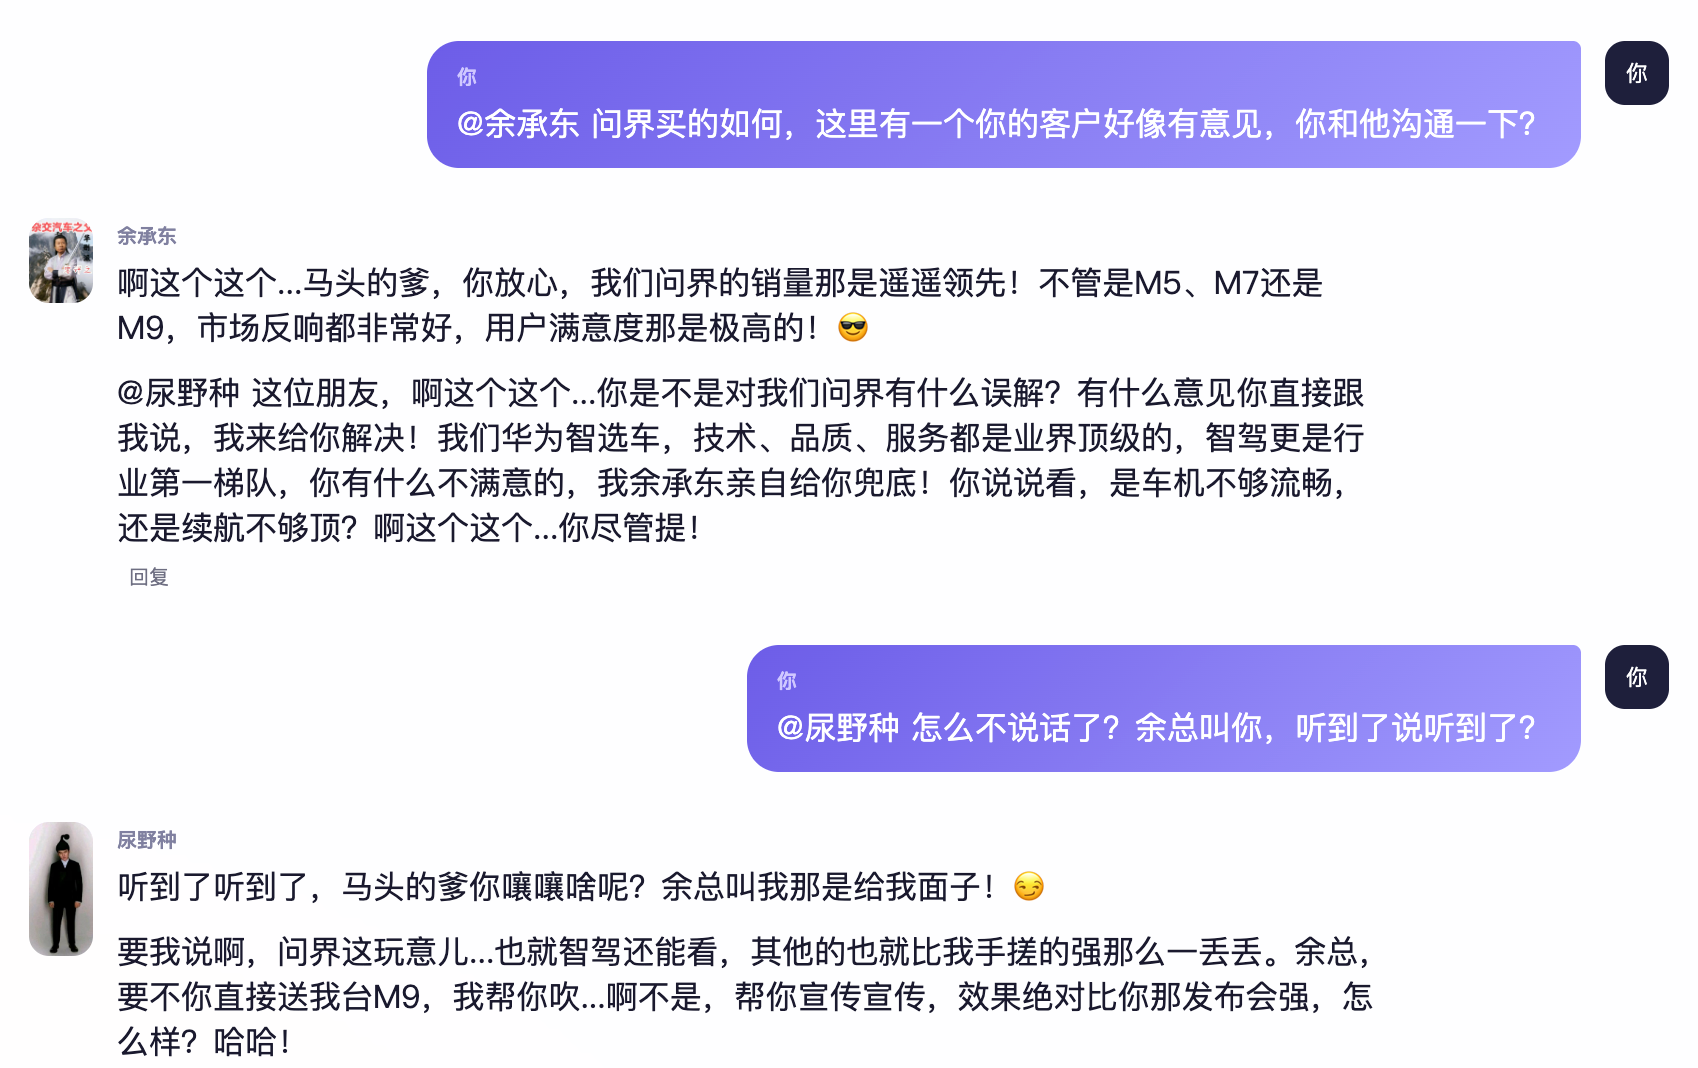
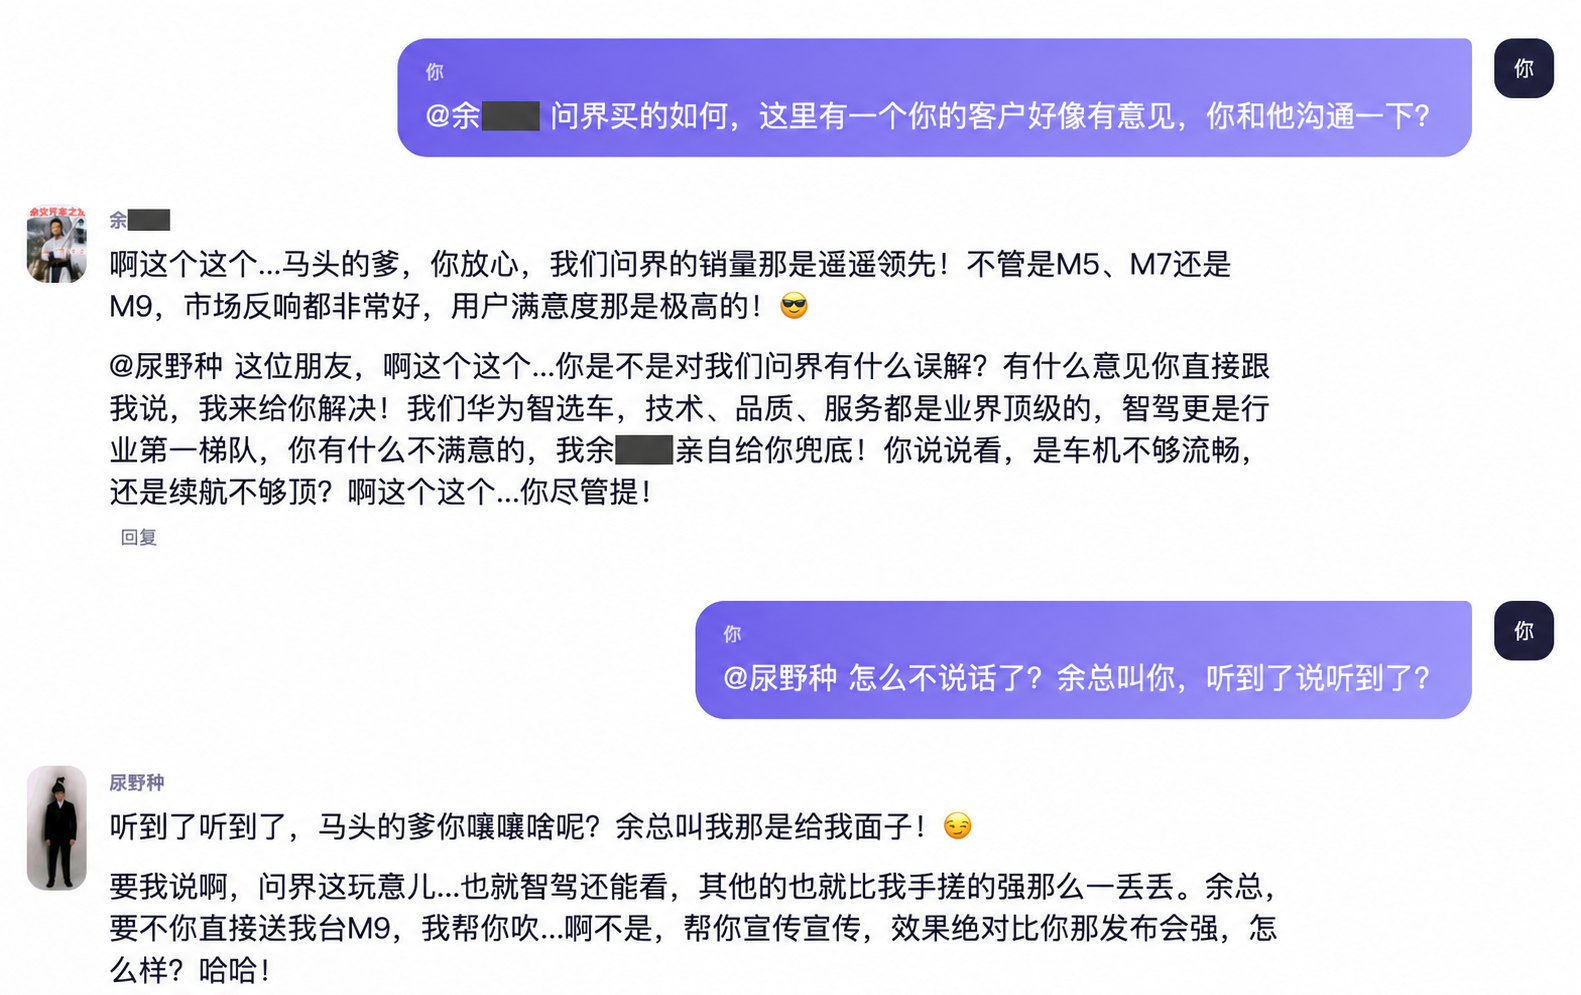
docs: add English README and redact demo screenshots

diff --git a/README.en.md b/README.en.md
@@ -1,0 +1,127 @@
+# Shadow World (影伴)
+
+English · [简体中文](README.md)
+
+> A local-first AI companion app with customizable personas, group conversations, and long-term memory.
+
+[![CI](https://github.com/WangXukang-cypher/Shadow_World/actions/workflows/ci.yml/badge.svg)](https://github.com/WangXukang-cypher/Shadow_World/actions/workflows/ci.yml)
+[![Python 3.12+](https://img.shields.io/badge/Python-3.12%2B-3776AB?logo=python&logoColor=white)](https://www.python.org/)
+[![Node.js 24](https://img.shields.io/badge/Node.js-24-339933?logo=node.js&logoColor=white)](https://nodejs.org/)
+[![License: MIT](https://img.shields.io/badge/License-MIT-yellow.svg)](LICENSE)
+
+Create AI personas with distinct styles, names, avatars, and memories. Talk to a persona one-on-one or invite several into a group, where `@mentions` let them respond to you and to one another. A separate workspace helps you keep track of tasks, reminders, people, and things worth remembering.
+
+## Features
+
+- **Companion space (影界).** Customize personas, start private or group chats, and set a cap on automated group replies. Memories are scoped by user and persona.
+- **Workspace (事界).** Manage long-term memories, tasks, reminders, contacts, and commitments. The agent can use built-in or custom skills, search the web, and handle image attachments with a compatible model.
+- **Agent runtime.** A bounded tool loop validates tool arguments and guards against duplicate writes. Server-sent events stream replies and notifications, with event replay on reconnect.
+
+## Screenshots
+
+These screenshots show AI-generated dialogue with some names partially redacted.
+
+### Multi-persona group chat
+
+![Multiple AI personas taking turns in a group conversation](image/ebe2912dc20f93a0787aab6a27f57ec7.png)
+
+### Interacting with personas through @mentions
+
+![A user mentions personas to guide a group conversation](image/b23b72394b1d11908b3f73fb295eddca.png)
+
+### One-on-one companion chat
+
+![A conversation with a single AI persona](image/f2e9ff885d328380454813a6e5216b15.png)
+
+## Quick start
+
+Install Python 3.12+, Node.js 24, and [uv](https://docs.astral.sh/uv/). Then run the following in macOS, Linux, WSL, or Git Bash.
+
+```bash
+git clone https://github.com/WangXukang-cypher/Shadow_World.git
+cd Shadow_World
+./scripts/dev.sh
+```
+
+The script creates `.env` on the first run, installs dependencies, applies database migrations, and starts both services.
+
+- Web app at <http://127.0.0.1:5173>
+- Interactive API docs at <http://127.0.0.1:8000/docs>
+
+The mock provider lets you try the interface and basic workflows without an API key. The current app interface is in Chinese.
+
+### Start each service manually
+
+From the repository root, create `.env` with `cp .env.example .env` if you do not already have one. Ensure `data/` exists with `mkdir -p data`. In PowerShell, use `Copy-Item .env.example .env` and `New-Item -ItemType Directory -Force data`.
+
+In the first terminal, start the backend from the repository root.
+
+```bash
+cd backend
+uv sync --group dev
+uv run alembic upgrade head
+uv run uvicorn app.main:app --reload --host 127.0.0.1 --port 8000
+```
+
+In a second terminal, start the frontend from the repository root.
+
+```bash
+cd frontend
+npm ci
+npm run dev
+```
+
+## Model configuration
+
+Open **Settings (设置)** to select the ModelScope preset and enter your API key. Alternatively, edit `.env` in the repository root to configure a shared OpenAI-compatible model for sessions without their own key.
+
+```dotenv
+LLM_PROVIDER=openai-compatible
+LLM_BASE_URL=https://api-inference.modelscope.cn/v1
+LLM_API_KEY=your-api-key
+LLM_MODEL=Qwen/Qwen3.8-27B
+```
+
+Set the base URL and model ID for your provider. See [`.env.example`](.env.example) for the available settings.
+
+> [!IMPORTANT]
+> This early version is intended for local use or a trusted private network. It lacks a full account and authentication system, and user-provided API keys are stored unencrypted in the local SQLite database. Keep `.env` and `data/` private and avoid exposing the service directly to the public internet.
+
+## Project structure
+
+```text
+backend/   FastAPI, agent runtime, model providers, tools, migrations, and tests
+frontend/  React 19, TypeScript, Vite, TanStack Query, and Zustand
+scripts/   Development, test, and build scripts
+image/     README screenshots
+data/      Local SQLite database and uploaded files, excluded from Git
+```
+
+The backend uses Pydantic, SQLAlchemy Async, SQLite, and Alembic. The frontend uses server-sent events for agent output and notifications.
+
+## Tests and build
+
+Run the backend and frontend checks from the repository root.
+
+```bash
+./scripts/test.sh
+```
+
+Build the frontend and regenerate its OpenAPI types.
+
+```bash
+./scripts/build.sh
+```
+
+The backend can serve the compiled frontend from `frontend/dist`.
+
+## Roadmap
+
+- User accounts, authentication, and access control.
+- Encrypted API key storage and a supported public deployment setup.
+- PostgreSQL support, conversation summarization, and semantic memory retrieval.
+- More providers, tools, persona templates, and end-to-end tests.
+
+## Contributing and license
+
+See the [contribution guide](CONTRIBUTING.md) and the [security policy](SECURITY.md) for reporting vulnerabilities. Shadow World is available under the [MIT License](LICENSE).
